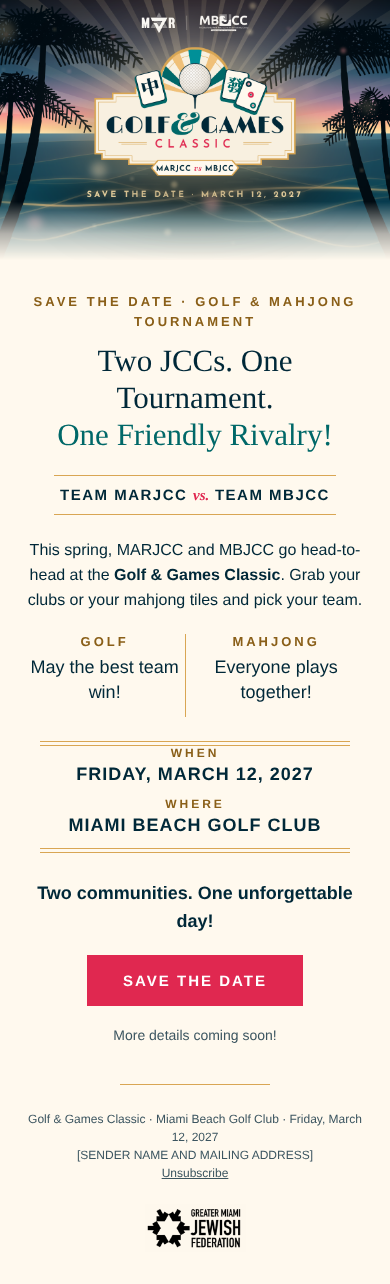
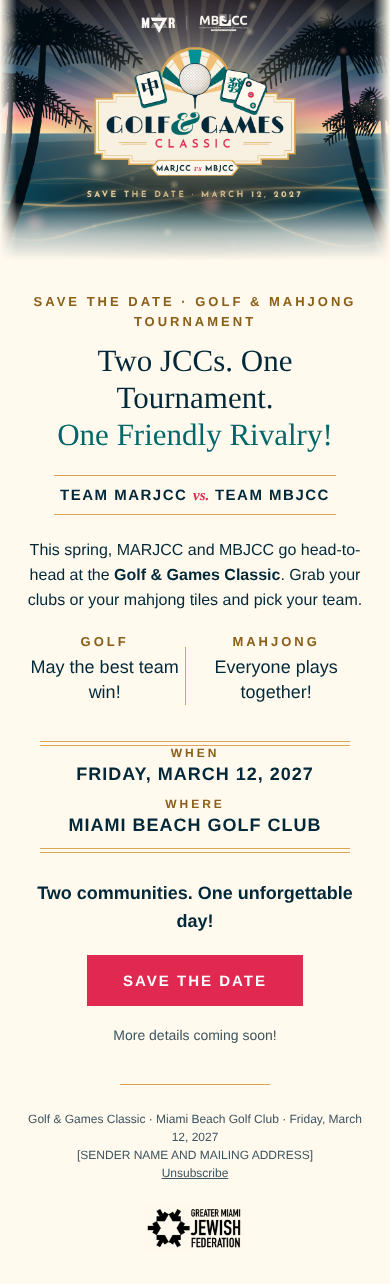
Work in progress: redesign updates
Claude-Session: https://claude.ai/code/session_014Yf17Fk2qdVoQEw95c3A5W

Changed region(s): [[0.9538, 0.0, 1.0, 0.2181], [0.0, 0.0, 0.0615, 0.2181]]

diff --git a/emails/save-the-date/index.html b/emails/save-the-date/index.html
@@ -37,7 +37,7 @@
   <tr><td class="px" align="center" style="padding:4px 40px 22px;"><table role="presentation" cellpadding="0" cellspacing="0" border="0" align="center"><tr><td style="border-top:1px solid #D9A653;border-bottom:1px solid #D9A653;padding:10px 6px;font-family:Arial, Helvetica, sans-serif;font-size:15px;font-weight:bold;letter-spacing:1.5px;color:#002838;text-transform:uppercase;text-align:center;">Team MARJCC <span style="color:#E02850;font-family:Georgia, 'Times New Roman', serif;font-style:italic;text-transform:none;letter-spacing:0;">vs.</span> Team MBJCC</td></tr></table></td></tr>
   <tr><td class="px" align="center" style="padding:0 40px 16px;font-family:Arial, Helvetica, sans-serif;font-size:16px;line-height:25px;color:#002838;">This spring, MARJCC and MBJCC go head-to-head at the <strong>Golf &amp; Games Classic</strong>. Grab your clubs or your mahjong tiles and pick your team.</td></tr>
   <tr><td style="height:6px;line-height:6px;font-size:6px;">&nbsp;</td></tr>
-  <tr><td class="px" style="padding:0 40px 24px;"><table role="presentation" width="100%" cellpadding="0" cellspacing="0" border="0"><tr><td class="col" width="49%" valign="top" align="center" style="padding:6px 10px;font-family:Arial, Helvetica, sans-serif;text-align:center;"><div style="font-size:13px;font-weight:bold;letter-spacing:3px;color:#8A5F18;text-transform:uppercase;">Golf</div><div style="font-size:18px;line-height:25px;color:#002838;padding-top:6px;">May the best team win!</div></td><td width="1" style="width:1px;background:#D9A653;font-size:1px;line-height:1px;">&nbsp;</td><td class="col" width="49%" valign="top" align="center" style="padding:6px 10px;font-family:Arial, Helvetica, sans-serif;text-align:center;"><div style="font-size:13px;font-weight:bold;letter-spacing:3px;color:#8A5F18;text-transform:uppercase;">Mahjong</div><div style="font-size:18px;line-height:25px;color:#002838;padding-top:6px;">Everyone plays together!</div></td></tr></table></td></tr>
+  <tr><td class="px" style="padding:0 40px 24px;"><table role="presentation" width="100%" cellpadding="0" cellspacing="0" border="0"><tr><td class="col" width="49%" valign="top" align="center" style="padding:6px 10px;font-family:Arial, Helvetica, sans-serif;text-align:center;"><div style="font-size:13px;font-weight:bold;letter-spacing:3px;color:#8A5F18;text-transform:uppercase;">Golf</div><div style="font-size:18px;line-height:25px;color:#002838;padding-top:6px;">May the best team win!</div></td><td width="1" valign="middle" style="width:1px;padding:0;"><div style="width:1px;height:58px;background:#D9A653;font-size:1px;line-height:1px;">&nbsp;</div></td><td class="col" width="49%" valign="top" align="center" style="padding:6px 10px;font-family:Arial, Helvetica, sans-serif;text-align:center;"><div style="font-size:13px;font-weight:bold;letter-spacing:3px;color:#8A5F18;text-transform:uppercase;">Mahjong</div><div style="font-size:18px;line-height:25px;color:#002838;padding-top:6px;">Everyone plays together!</div></td></tr></table></td></tr>
 <tr><td style="padding:0 40px;"><table role="presentation" width="100%" cellpadding="0" cellspacing="0" border="0"><tr><td style="border-top:1px solid #D9A653;border-bottom:1px solid #D9A653;height:3px;line-height:3px;font-size:3px;">&nbsp;</td></tr></table></td></tr>
   <tr><td class="px" style="padding:0 40px;"><table role="presentation" width="100%" cellpadding="0" cellspacing="0" border="0"><tr><td class="col" width="50%" valign="top" align="center" style="padding:14px 6px;font-family:Arial, Helvetica, sans-serif;"><div style="font-size:12px;font-weight:bold;letter-spacing:3px;color:#8A5F18;text-transform:uppercase;">When</div><div style="font-size:18px;font-weight:bold;letter-spacing:1px;color:#002838;text-transform:uppercase;padding-top:4px;">Friday, March 12, 2027</div></td><td class="col" width="50%" valign="top" align="center" style="padding:14px 6px;font-family:Arial, Helvetica, sans-serif;"><div style="font-size:12px;font-weight:bold;letter-spacing:3px;color:#8A5F18;text-transform:uppercase;">Where</div><div style="font-size:18px;font-weight:bold;letter-spacing:1px;color:#002838;text-transform:uppercase;padding-top:4px;">Miami Beach Golf Club</div></td></tr></table></td></tr>
 <tr><td style="padding:0 40px;"><table role="presentation" width="100%" cellpadding="0" cellspacing="0" border="0"><tr><td style="border-top:1px solid #D9A653;border-bottom:1px solid #D9A653;height:3px;line-height:3px;font-size:3px;">&nbsp;</td></tr></table></td></tr>

diff --git a/save-the-date/scene.js b/save-the-date/scene.js
@@ -7,7 +7,7 @@ function E(tag,attrs,parent){const e=document.createElementNS(NS,tag);for(const 
 function smooth(pts){let d=`M${pts[0][0]},${pts[0][1]}`;for(let i=0;i<pts.length-1;i++){const p0=pts[i-1]||pts[i],p1=pts[i],p2=pts[i+1],p3=pts[i+2]||p2;
   const c1=[p1[0]+(p2[0]-p0[0])/6,p1[1]+(p2[1]-p0[1])/6],c2=[p2[0]-(p3[0]-p1[0])/6,p2[1]-(p3[1]-p1[1])/6];d+=` C${c1[0]},${c1[1]} ${c2[0]},${c2[1]} ${p2[0]},${p2[1]}`}return d}
 window.buildScene=function(host,o){
-  const {W,H,horizon:hz,sunR=90,fadeToPaper=0,palms=true,seed=7,ribbons=[.35,.63],calm=null}=o, r=rng(seed);
+  const {W,H,horizon:hz,sunR=90,fadeToPaper=0,fadeSides=0,palms=true,seed=7,ribbons=[.35,.63],calm=null}=o, r=rng(seed);
   const svg=E('svg',{width:W,height:H,viewBox:`0 0 ${W} ${H}`,preserveAspectRatio:'none'});
   svg.style.cssText='position:absolute;inset:0;display:block';
   const d=E('defs',{},svg), f=hz/H;
@@ -76,6 +76,9 @@ window.buildScene=function(host,o){
   if(fadeToPaper){const fp=E('linearGradient',{id:'fp',x1:0,y1:0,x2:0,y2:1},d);
     [[0,'#FFF9EE',0],[.55,'#FFF9EE',.7],[1,'#FFF9EE',1]].forEach(([a,c,op])=>E('stop',{offset:a,'stop-color':c,'stop-opacity':op},fp));
     E('rect',{x:0,y:H-fadeToPaper,width:W,height:fadeToPaper,fill:'url(#fp)'},svg)}
+  if(fadeSides){[['l',1,0],['r',0,1]].forEach(([id,a1,a2])=>{const g=E('linearGradient',{id:'fs'+id,x1:0,y1:0,x2:1,y2:0},d);
+      E('stop',{offset:0,'stop-color':'#FFF9EE','stop-opacity':a1},g);E('stop',{offset:1,'stop-color':'#FFF9EE','stop-opacity':a2},g);
+      E('rect',{x:id==='l'?0:W-fadeSides,y:0,width:fadeSides,height:H,fill:`url(#fs${id})`},svg)})}
   host.prepend(svg);
 };
 })();

diff --git a/save-the-date/email-header.html b/save-the-date/email-header.html
@@ -10,5 +10,5 @@
   <img class="logo" src="../logo/golf-games-classic-logo.png" alt="">
   <p class="caps line">Save the Date &middot; March 12, 2027</p>
 </div></div>
-<script>buildScene(document.getElementById('p'),{W:600,H:400,horizon:205,sunR:70,fadeToPaper:90,seed:3,palms:true,ribbons:[.5],calm:[300,260,40]})</script>
+<script>buildScene(document.getElementById('p'),{W:600,H:400,horizon:205,sunR:70,fadeToPaper:90,fadeSides:26,seed:3,palms:true,ribbons:[.5],calm:[300,260,40]})</script>
 </body></html>

diff --git a/emails/build.py b/emails/build.py
@@ -116,7 +116,8 @@ def duo():
     cell = (f'<td class="col" width="49%" valign="top" align="center" style="padding:6px 10px;font-family:{FONT};text-align:center;">'
             f'<div style="font-size:13px;font-weight:bold;letter-spacing:3px;color:{GOLDTEXT};text-transform:uppercase;">{{k}}</div>'
             f'<div style="font-size:18px;line-height:25px;color:{NAVY};padding-top:6px;">{{v}}</div></td>')
-    sep = f'<td width="1" style="width:1px;background:{GOLD};font-size:1px;line-height:1px;">&nbsp;</td>'
+    sep = (f'<td width="1" valign="middle" style="width:1px;padding:0;">'
+           f'<div style="width:1px;height:58px;background:{GOLD};font-size:1px;line-height:1px;">&nbsp;</div></td>')
     return (f'  <tr><td class="px" style="padding:0 40px 24px;"><table role="presentation" width="100%" cellpadding="0" cellspacing="0" border="0"><tr>'
             + cell.format(k="Golf", v="May the best team win!") + sep
             + cell.format(k="Mahjong", v="Everyone plays together!")

diff --git a/emails/README.md b/emails/README.md
@@ -5,7 +5,7 @@ Dos emails listos para Resend:
 - `save-the-date/`: el Save the Date principal (`index.html` + `index.txt`).
 - `reminder/`: un recordatorio más corto, con el mismo diseño.
 
-Los logos siguen la regla del evento: MARJCC y MBJCC arriba, juntos, en un solo color (verde azulado, `marjcc-teal.png` y `mbjcc-teal.png`), sin caja blanca. El logo de GMJF va siempre al final del email, solo.
+Los logos siguen la regla del evento: MARJCC y MBJCC van arriba, en blanco, dentro de la imagen del encabezado (`save-the-date-email-header.png`), sin caja blanca. El logo de GMJF va siempre al final del email, solo.
 
 ## 1. Subir las imágenes
 
